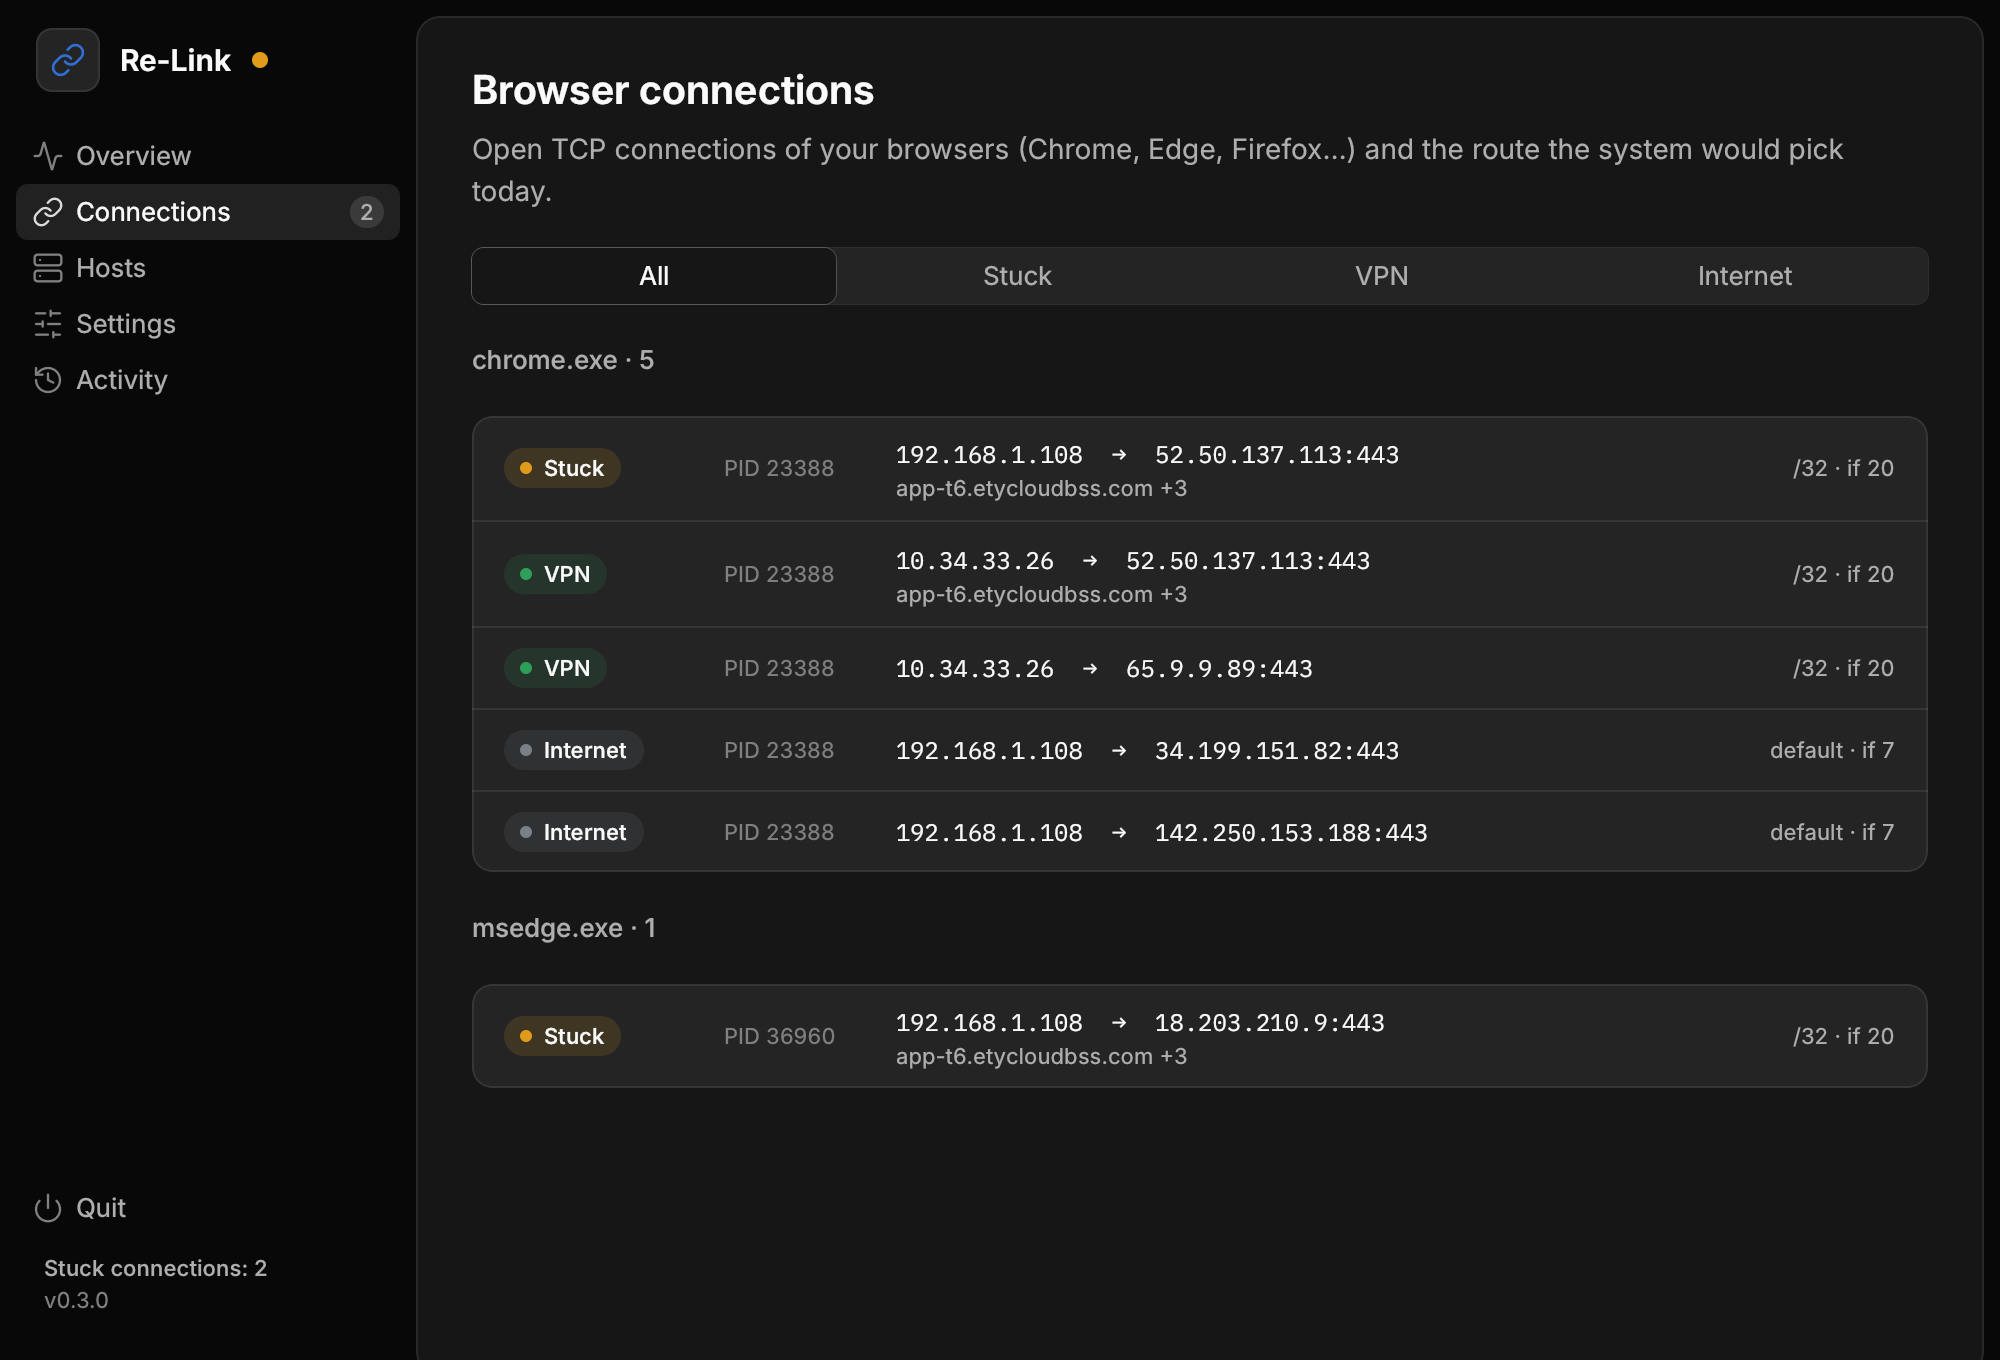
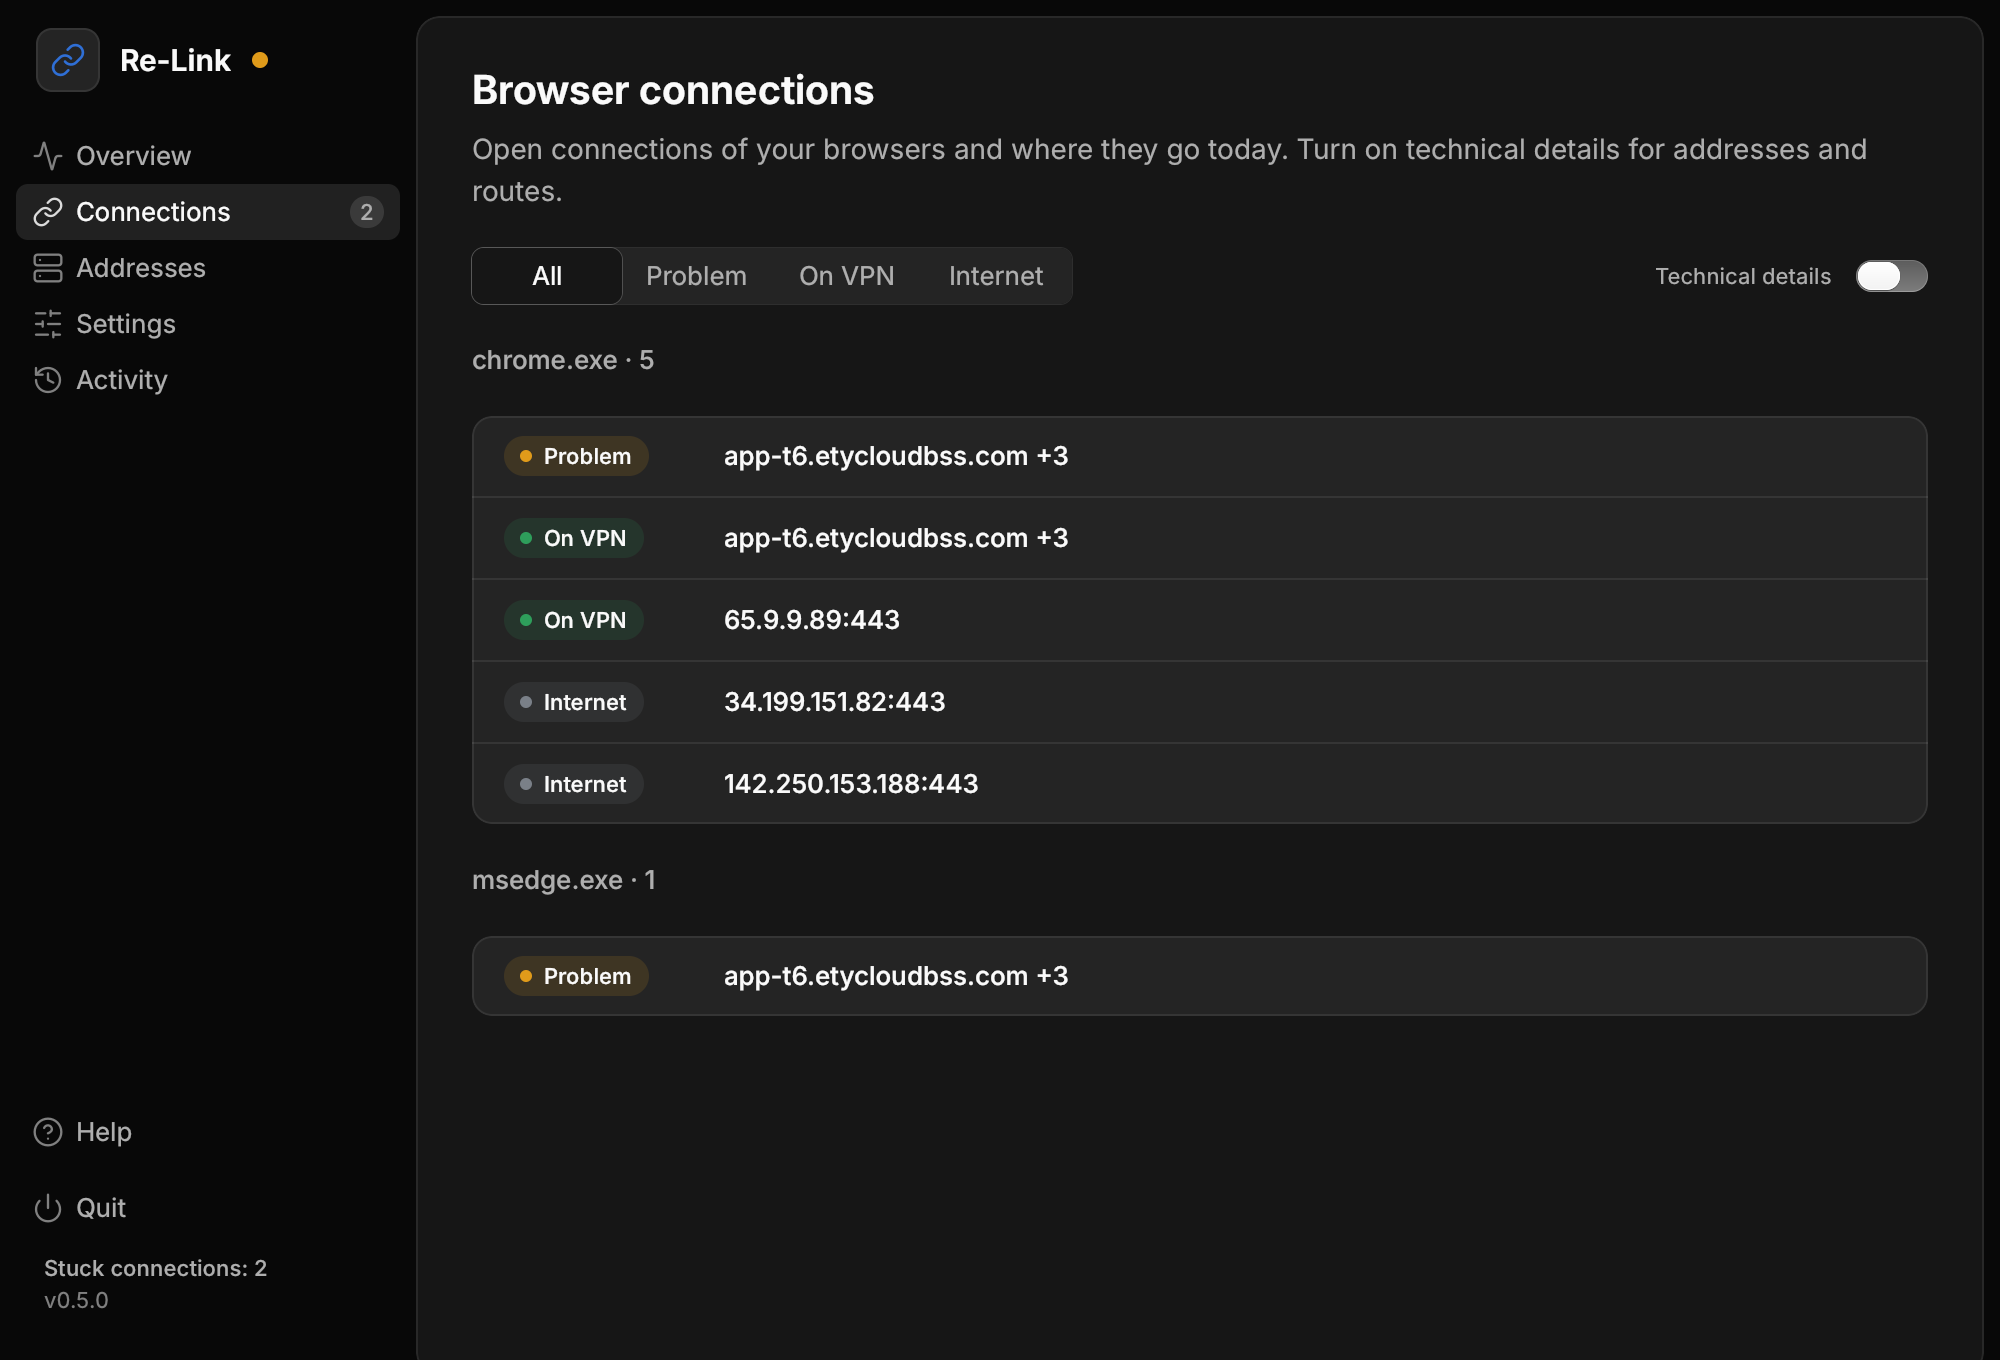
Refresh the README screenshots for v0.5.0

diff --git a/README.md b/README.md
@@ -12,15 +12,15 @@ closing the browser.
 
 ## Screenshots
 
-<p align="center"><img src="assets/screenshots/overview.png" alt="Overview: two stuck browser connections found, with Fix now, Check now and Pause" width="880"></p>
+<p align="center"><img src="assets/screenshots/overview.png" alt="Overview: two stuck browser connections, the browser, VPN and company path, the counters and recent activity" width="880"></p>
 
 <p align="center">
-<img src="assets/screenshots/connections.png" alt="Browser connections marked Stuck, VPN or Internet" width="435">
-<img src="assets/screenshots/hosts.png" alt="Watched hosts marked VPN, Internet, Route missing or Unresolved" width="435">
+<img src="assets/screenshots/connections.png" alt="Browser connections marked Problem, On VPN or Internet" width="435">
+<img src="assets/screenshots/hosts.png" alt="Watched addresses marked Off VPN, On VPN, Internet or Unresolved" width="435">
 </p>
 
 <p align="center">
-<img src="assets/screenshots/settings.png" alt="Settings: automatic fix, check interval, notifications and updates" width="435">
+<img src="assets/screenshots/settings.png" alt="Settings: automatic fix, start and close behaviour, check interval, notifications and updates" width="435">
 <img src="assets/screenshots/activity.png" alt="Activity log grouped by day" width="435">
 </p>
 
